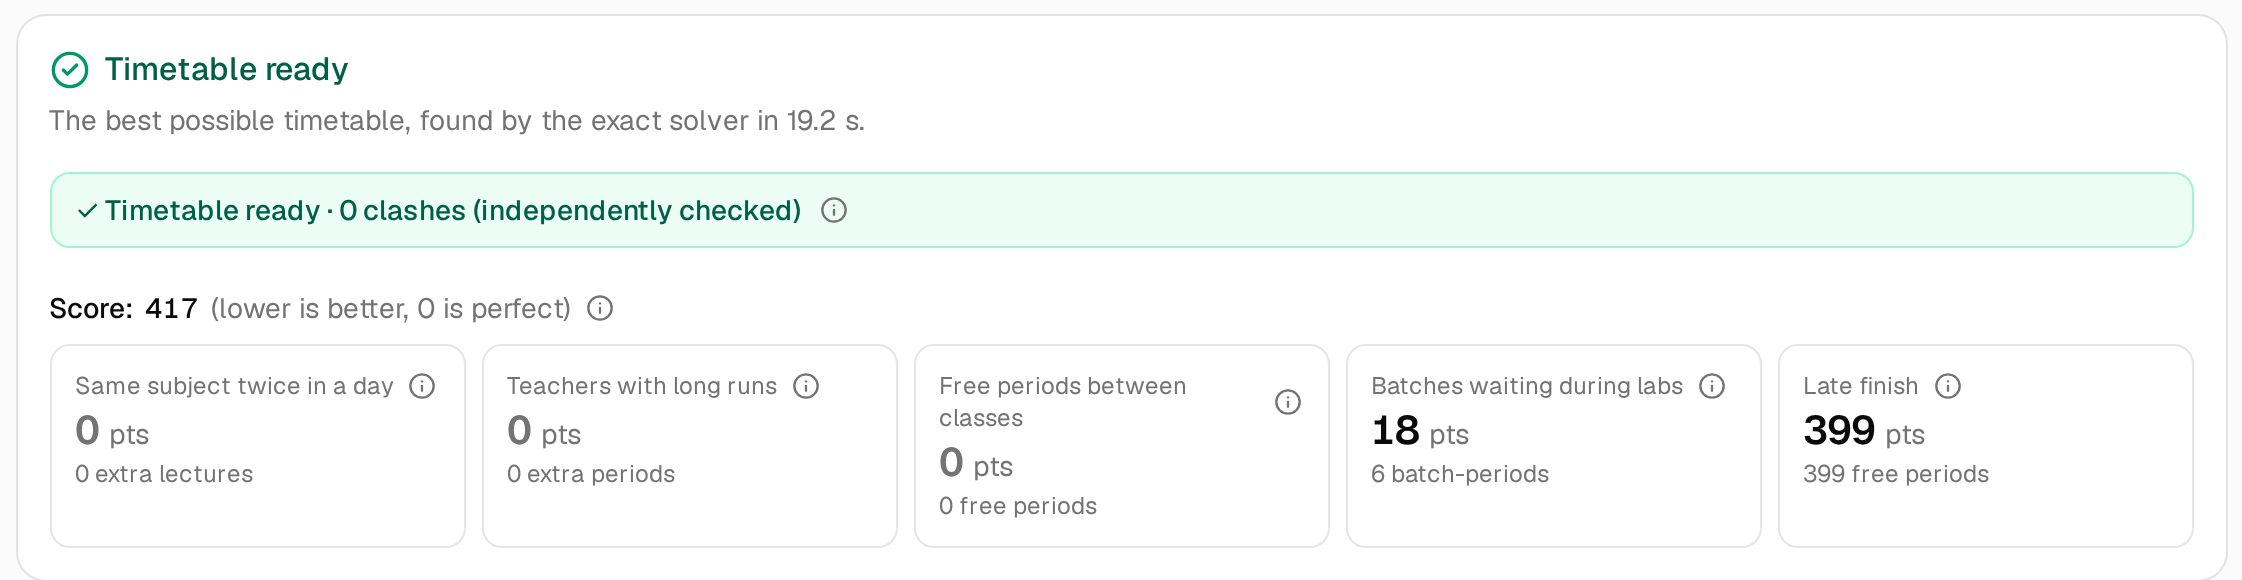
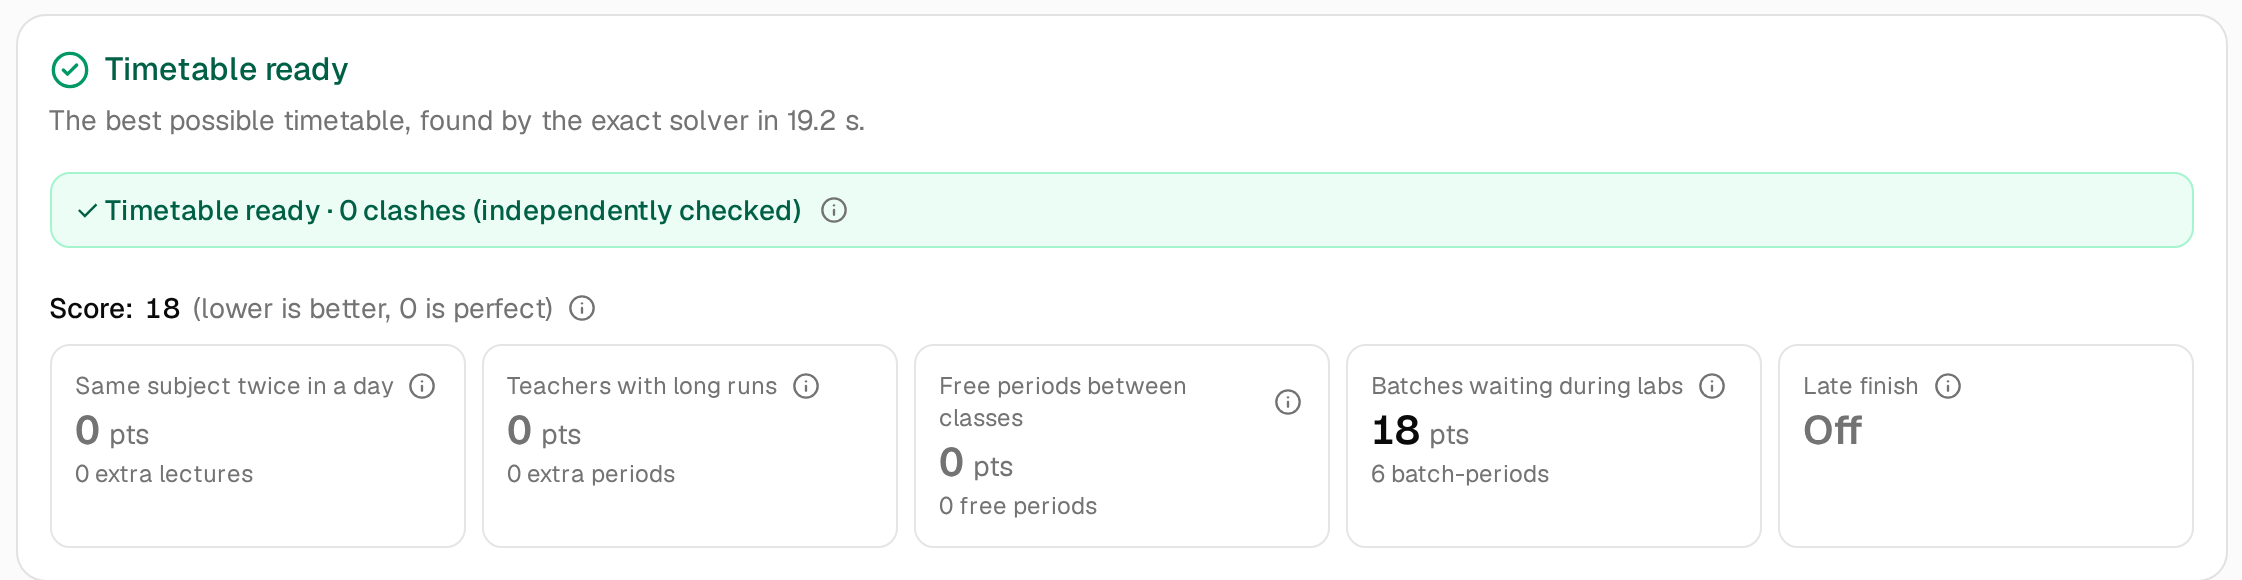
chore: retake help screenshots with S5 starting off
After merging T53 and T54 the sample scores 18 with Late finish off;
the ready card, the aims card and the help text now show that.

Changed region(s): [[0.0624, 0.4966, 0.281, 0.5586], [0.7806, 0.7138, 0.8742, 0.7759], [0.8118, 0.8069, 0.9054, 0.8379]]

diff --git a/PROGRESS.md b/PROGRESS.md
@@ -104,6 +104,7 @@ Ticket status is in `tickets/`; this file records what actually works.
 - [T54] The assistant can switch soft rules: `set_soft_rules` on `propose_changes` (`set: [{ rule: "S5", on: true }]`, the switches left out stay; a list of `{ rule, on }` rather than optional `s1…s5` keys, since every field is required). The card line reads "Turn on: Finish each day as early as possible"; a proposal that changes nothing fails its dry run so the model explains instead. Applying takes an undo snapshot, re-scores the timetable and shows "Preferences changed" until the regenerate; the score line then reads "Score 34 → 41 with Late finish on · 0 unplaced". `score_details` takes S5 and gives `on` per rule; the system prompt names the switches. `agent_eval.py` asks "Make the days finish earlier." twice: with S5 off (new `lateFinishOff` scenario: expect a card) and on (expect an explanation). (Signed in with assistant access, ask "make the days finish earlier" after switching that aim off.)
 - [T54] Help screenshots retaken, with a new `aims-card.png` in *What to aim for*; the shots' `/health` stub now sends the contract version, so step ③ shots no longer show "The solver was updated at a different time". The help's sample-score lines no longer give a number (it depends on T53). (`cd web && npm run help:shots`; a second run changes nothing.)
 - [T55] *Request a trial coupon* opens a dialog: *Open in Gmail* (compose in the browser's first Google account, `/mail/u/0/…&tf=cm`), *Open email app* (the mailto, first on touch screens), and To/Subject/Message rows with their own *Copy* and ✓; the "No email app?" line is gone; help and privacy wording updated (signed in as an institute admin without assistant access, open the assistant and click *Request a trial coupon*)
+- [chore] Help screenshots retaken after merging T53 and T54: `timetable-ready.png` scores 18 with Late finish *Off*, `aims-card.png` shows that switch off (the three dialog shots changed only in the page behind them); `/help/generate#aims` now says S5 starts off and why. T54's "flip it off and watch the score drop" above now reads: flip it on and watch it rise. (`cd web && npm run help:shots`; a second run changes nothing.)
 
 ## Known issues / cuts
 

diff --git a/web/src/help/generate.md b/web/src/help/generate.md
@@ -14,14 +14,14 @@ The first card in step ③ lists five aims, one switch each. They are the soft r
 | Keep a section's batches busy at the same time | Batches waiting during labs |
 | Finish each day as early as possible | Late finish |
 
-![The What to aim for card: five switches, all on, each with an ⓘ](/help/aims-card.png)
+![The What to aim for card: five switches, the first four on and Finish each day as early as possible off, each with an ⓘ](/help/aims-card.png)
 
-All five are on to begin with. The ⓘ next to each says how many points it costs.
+The first four are on to begin with, and *Finish each day as early as possible* is off. The ⓘ next to each says how many points it costs.
 
 - **Flipping a switch keeps your timetable and its locks.** The score is counted again at once under the new switches, and "Preferences changed: regenerate to use them" appears next to the main button. Generate again to get a timetable made for them. The line goes away after the next run, or if you flip the switches back.
 - An aim that's off reads *Off* in the score, not 0, and adds nothing to the total.
 - The switches are saved with your data, in your browser and in [online versions](/help/online), so another editor who opens the timetable regenerates it the same way. **Undo** brings back switches that the assistant changed; a switch you flip yourself has no undo step, so flip it back.
-- Turning an aim off can let Generate do better on the others. For example, with *Finish each day as early as possible* off, Generate doesn't mind a section starting late or a teacher waiting for a last class.
+- Turning an aim off can let Generate do better on the others, which is why *Finish each day as early as possible* starts off: with it on, the exact solver does much worse on the other four in 20 s. With it off, Generate doesn't mind a section starting late or a teacher waiting for a last class.
 - The switches are greyed out while a run is going.
 
 ## The exact solver and the quick draft {#engines}
